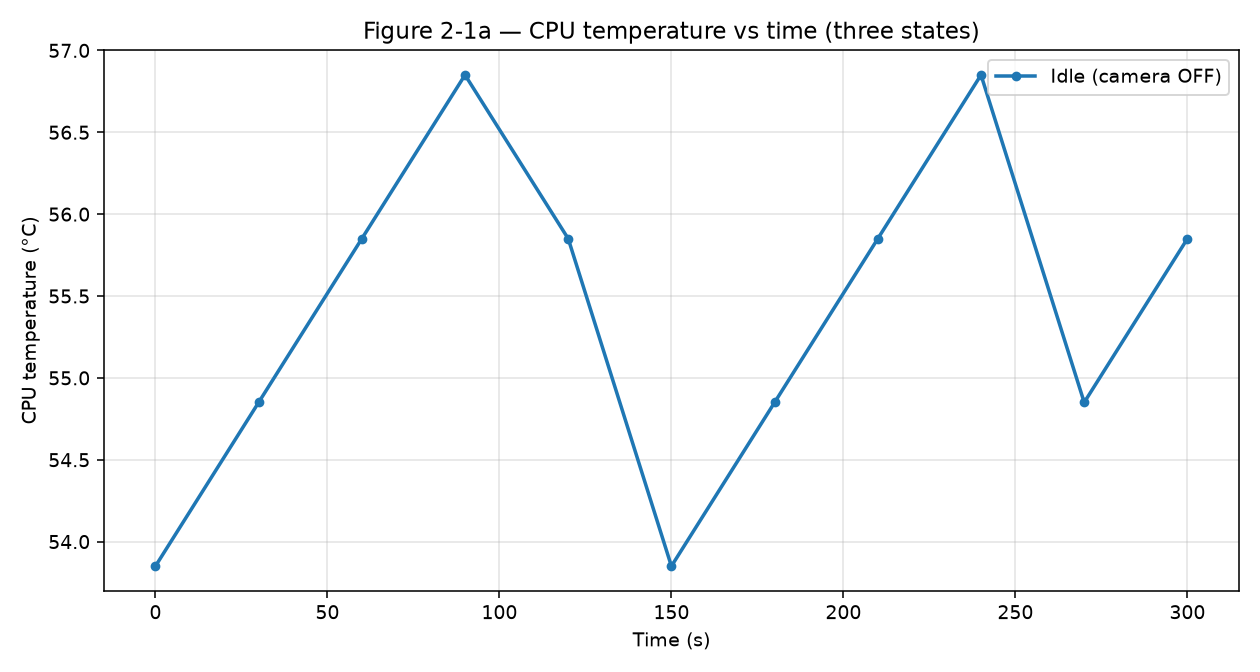
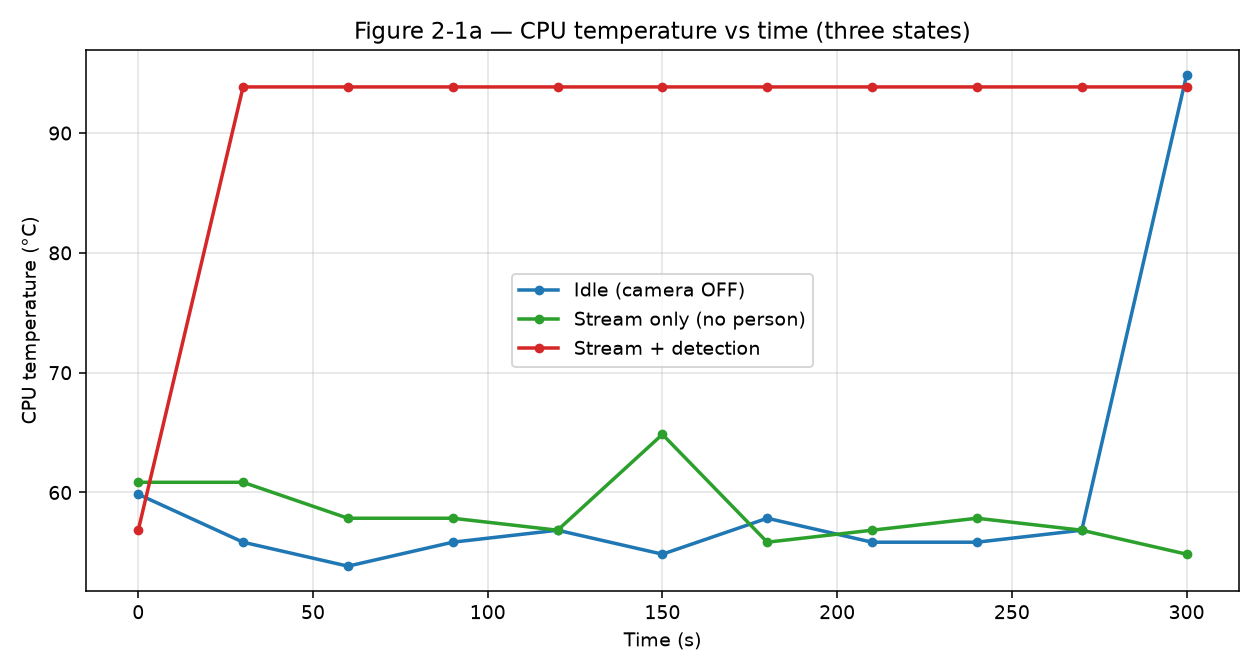
finalize report for part 2 forn now

diff --git a/report/part 2/report.md b/report/part 2/report.md
@@ -43,44 +43,31 @@ Expected report output:
 ### Procedure
 Ensure services are running (`web_server`, `human_detector`). Prefer Host CPU temp helper on Windows if WSL sysfs temp is unavailable.
 
-**Common sample loop** (run once per state; duration 5 minutes ≈ 11 samples at 30 s):
+Use the project sampler (writes real CSV rows from `/api/v1/telemetry`):
 
 ```bash
-OUT="report/part 2/fig/temp_STATE.csv"   # replace STATE with idle / stream / detect
-echo "t_sec,cpu_temp,cpu_usage_percent,mem_used_percent" > "$OUT"
-for i in $(seq 0 10); do
-  curl -sk https://127.0.0.1:8443/api/v1/telemetry
-  # parse cpu_temp into CSV (or copy from dashboard)
-  sleep 30
-done
+cd ~/embedded_project
+# fix Windows line endings once if needed:
+sed -i 's/\r$//' scripts/sample_temp_csv.sh
+
+# (a) Idle — camera OFF, do not open stream (~5 min)
+bash scripts/sample_temp_csv.sh idle
+
+# (b) Stream only — script turns camera ON; open dashboard stream; stay out of view (~5 min)
+bash scripts/sample_temp_csv.sh stream
+
+# (c) Stream + detection — open stream and stand in front of camera (~5 min)
+bash scripts/sample_temp_csv.sh detect
+
+# Plot three curves
+.venv/bin/python scripts/plot_part2_figs.py
 ```
 
-**State (a) — Idle**
+Output files:
 
-```bash
-curl -sk -X POST https://127.0.0.1:8443/api/v1/command \
-  -H 'Content-Type: application/json' \
-  -d '{"cmd":"camera_off"}'
-# Do not open the live stream. Run the 5-minute sample loop → temp_idle.csv
-```
-
-**State (b) — Stream only**
-
-```bash
-curl -sk -X POST https://127.0.0.1:8443/api/v1/command \
-  -H 'Content-Type: application/json' \
-  -d '{"cmd":"camera_on"}'
-# Open https://127.0.0.1:8443/ and keep the stream visible.
-# Stay out of camera view. Run 5-minute sample → temp_stream.csv
-```
-
-**State (c) — Stream + active detection**
-
-```bash
-# Camera already ON; keep stream open; stand in front of the camera so count ≥ 1.
-# Run 5-minute sample → temp_detect.csv
-# At the end, screenshot the dashboard (boxes + student ID + count).
-```
+- `report/part 2/fig/temp_idle.csv`
+- `report/part 2/fig/temp_stream.csv`
+- `report/part 2/fig/temp_detect.csv`
 
 Plot the three `cpu_temp` series on one chart (Excel, Python `matplotlib`, etc.).
 
